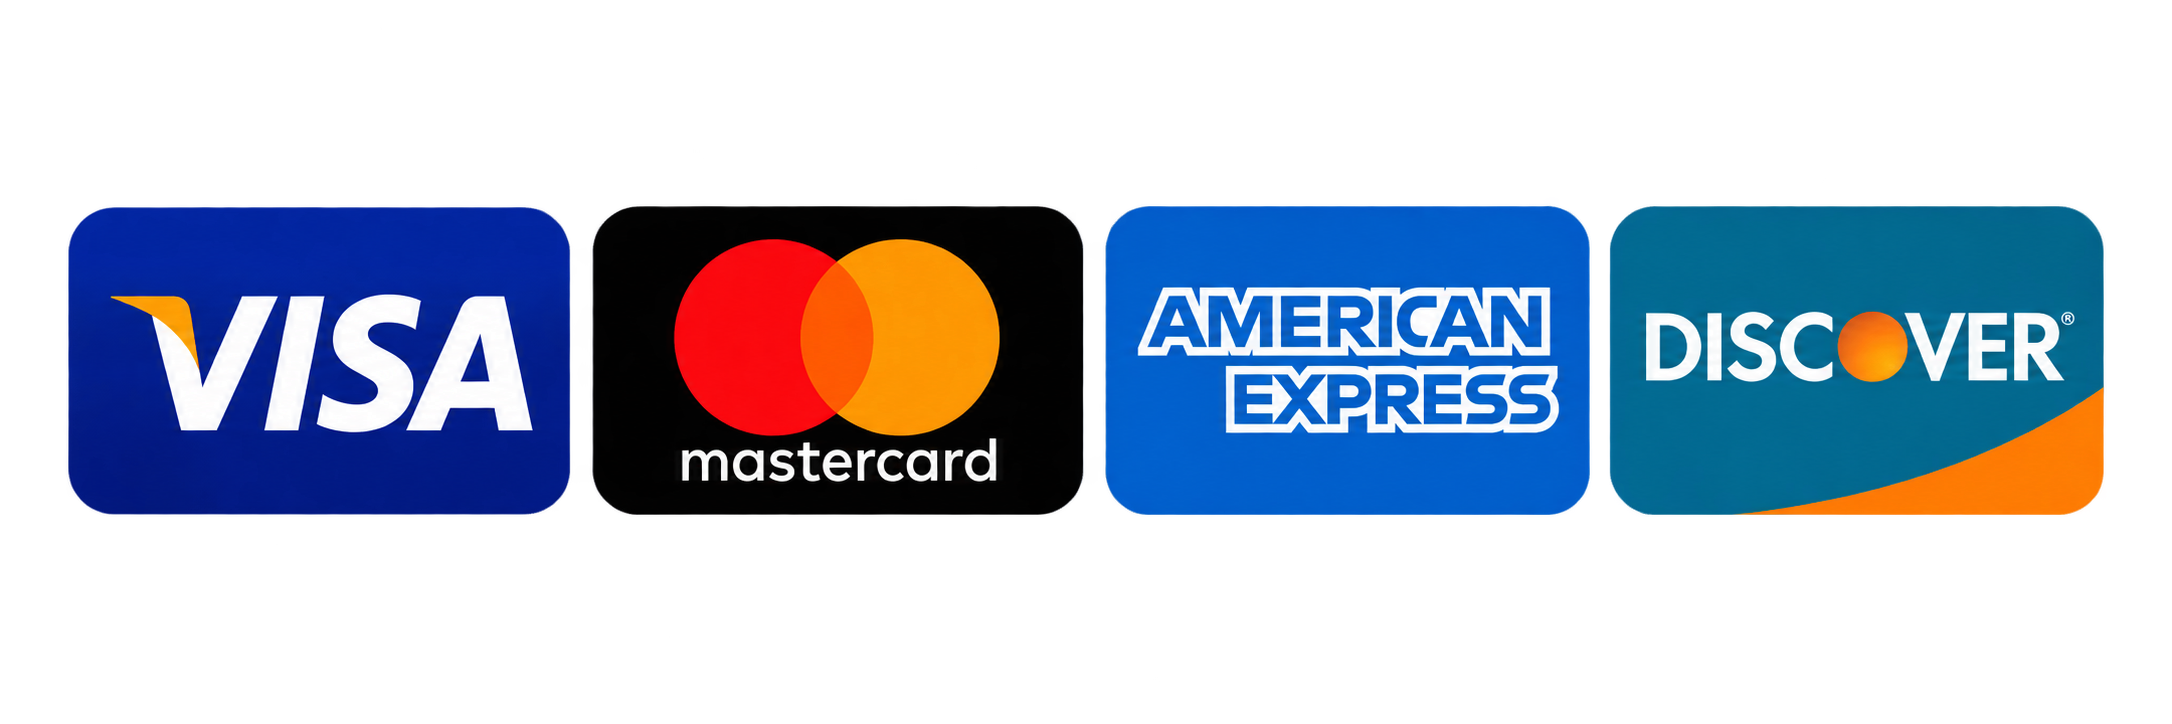
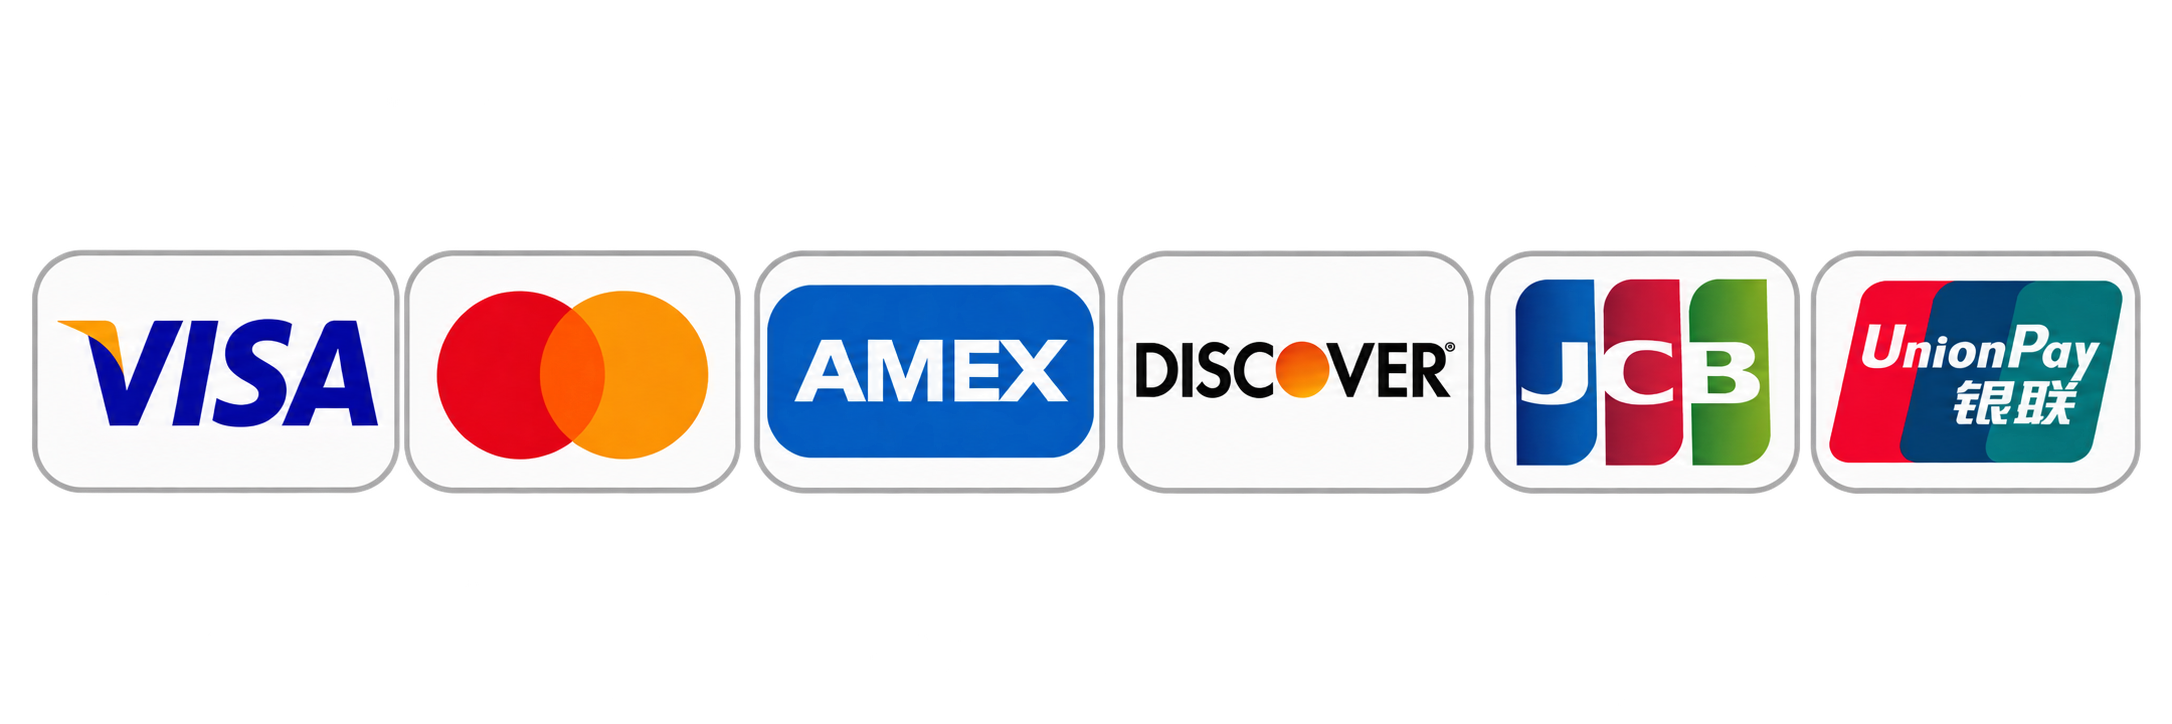
ga14

diff --git a/src/components/cart/CartDrawer.tsx b/src/components/cart/CartDrawer.tsx
@@ -878,8 +878,8 @@ export default function CartDrawer({
             </button>
 
             {/* PAYPAL PAYMENT BRANDING */}
-            <div className="mt-2 flex flex-col items-center justify-center">
-              <div className="mb-2 flex items-center justify-center">
+            <div className="mt-1 flex flex-col items-center justify-center">
+              <div className="mb-0 flex items-center justify-center">
                 <span className="text-[10px] italic font-medium text-[#777777]">
                   Powered by
                 </span>
@@ -890,66 +890,16 @@ export default function CartDrawer({
               </div>
 
               <div
-                className="flex items-center justify-center gap-[6px]"
+                className="-mt-1.5 flex w-full items-center justify-center gap-1.5"
                 aria-label="Accepted payment methods"
               >
-                <div
-                  className="flex h-[20px] w-[25px] items-center justify-center"
-                  aria-label="PayPal"
-                >
-                  <svg
-                    viewBox="0 0 32 24"
-                    className="h-[18px] w-[24px]"
-                    aria-hidden="true"
-                  >
-                    <path
-                      fill="#003087"
-                      d="M10.1 4.2h8.1c4.1 0 6.2 2.2 5.5 5.5-.7 3.4-3.5 5.3-7.3 5.3h-2.5l-1 4.8H8.1l2-15.6Z"
-                    />
-                    <path
-                      fill="#009CDE"
-                      d="M8.3 6.4h7.9c3.7 0 5.8 1.8 5.4 4.5-.5 2.8-3 4.6-6.6 4.6h-2.5l-.7 3.5H7.2L8.3 6.4Z"
-                    />
-                  </svg>
-                </div>
-
-                <div
-                  className="
-                    flex
-                    h-[21px]
-                    min-w-[34px]
-                    items-center
-                    justify-center
-                    rounded-[5px]
-                    bg-[#1434CB]
-                  "
-                  aria-label="Visa"
-                >
-                  <span className="text-[9px] font-black italic tracking-[-0.08em] text-white">
-                    VISA
-                  </span>
-                </div>
-
-                <div
-                  className="
-                    flex
-                    h-[21px]
-                    min-w-[34px]
-                    items-center
-                    justify-center
-                    rounded-[5px]
-                    bg-[#F3F3F3]
-                  "
-                  aria-label="Mastercard"
-                >
-                  <div className="relative h-[15px] w-[25px]">
-                    <span className="absolute left-0 top-1/2 h-[15px] w-[15px] -translate-y-1/2 rounded-full bg-[#EB001B]" />
-                    <span className="absolute right-0 top-1/2 h-[15px] w-[15px] -translate-y-1/2 rounded-full bg-[#F79E1B]" />
-                    <span className="absolute left-1/2 top-1/2 h-[15px] w-[7px] -translate-x-1/2 -translate-y-1/2 bg-[#FF5F00]" />
-                  </div>
-                </div>
-
-                <span className="ml-[2px] text-[11px] font-medium text-[#777777]">
+                <img
+                  src="/payment-methods/all%20card.png"
+                  alt="Accepted payment methods"
+                  className="-my-1 block h-auto w-[280px] max-w-[calc(100%-48px)] object-contain"
+                  loading="lazy"
+                />
+                <span className="shrink-0 whitespace-nowrap text-[12px] font-semibold text-[#6B7280]">
                   +more
                 </span>
               </div>
@@ -958,7 +908,7 @@ export default function CartDrawer({
             {/* WARRANTY */}
             <div
               className="
-                mt-2
+                mt-1
                 flex
                 min-h-[38px]
                 items-center
